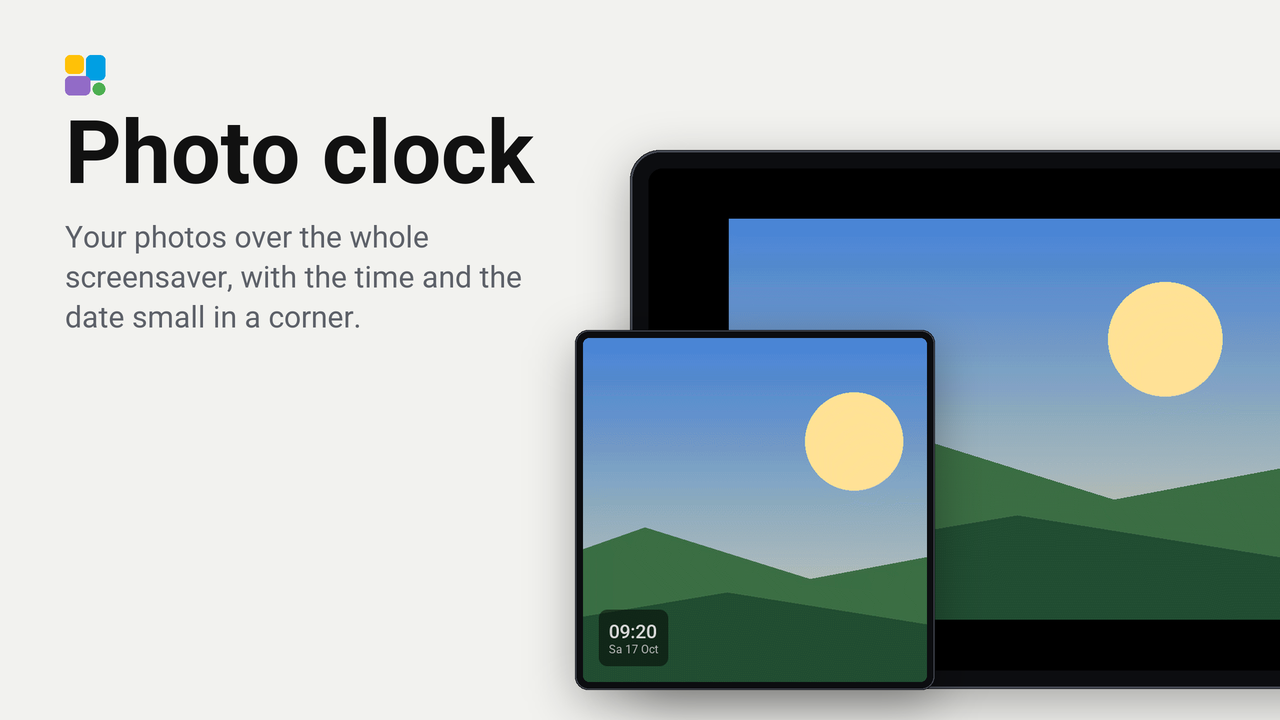
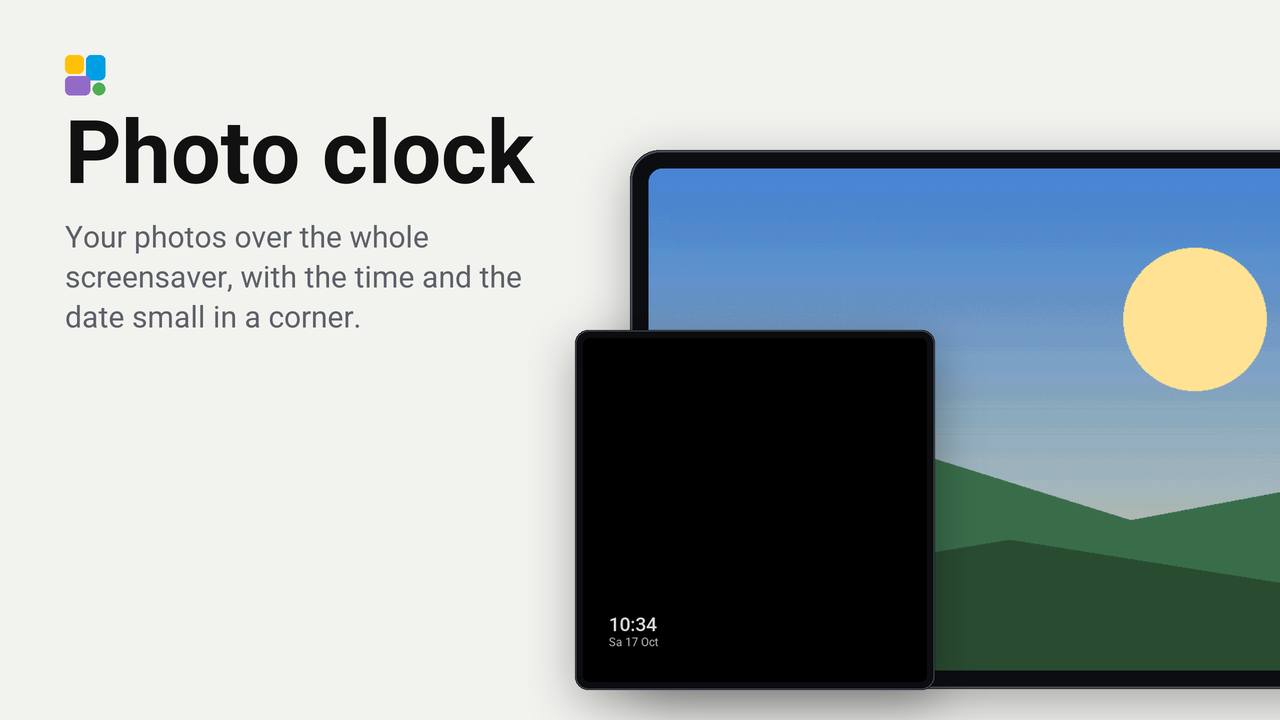
photo_clock draws over the step's own photo (backdrop), which moves with Motion: Slow; the bench answers a backdrop and audits a saver on its black ground
The manifest's backdrop and the bench's answer to the screen's question for the step's picture (photos moving where
preview.yaml's example says motion: true); FIRMWARE_API.md and MANIFEST.md describe backdrop. The audit took the light
page for the ground of a saver's clear glass and called white words on a shade over a photo too faint.

Changed region(s): [[0.4375, 0.2139, 1.0, 0.9472], [0.8438, 0.3361, 1.0, 0.55]]

diff --git a/tools/bench.py b/tools/bench.py
@@ -112,10 +112,12 @@ BENCH_ACTIONS = '''    - action: render_settings
               auto channel = [](uint8_t v) {{ const float s = v / 255.0f; return s <= 0.03928f ? s / 12.92f : std::pow((s + 0.055f) / 1.055f, 2.4f); }};
               return 0.2126f * channel(c.red) + 0.7152f * channel(c.green) + 0.0722f * channel(c.blue);
             }};
-            auto ground = [](lv_obj_t *o) {{
+            // A screensaver stands on the black glass, or on the step's own picture under a clear glass (`backdrop`),
+            // which the screensaver darkens or which the saver lays a shade over: the ground is the glass's black there.
+            auto ground = [&](lv_obj_t *o) {{
               for (lv_obj_t *p = lv_obj_get_parent(o); p; p = lv_obj_get_parent(p))
                 if (lv_obj_get_style_bg_opa(p, LV_PART_MAIN) >= LV_OPA_80) return lv_obj_get_style_bg_color(p, LV_PART_MAIN);
-              return theme::color(theme::PAGE);
+              return theme::color(saver ? theme::CAMERA_PAGE : theme::PAGE);
             }};
             std::function<void(lv_obj_t *, const lv_area_t &, Count &)> walk = [&](lv_obj_t *o, const lv_area_t &room, Count &n) {{
               if (!o || lv_obj_has_flag(o, LV_OBJ_FLAG_HIDDEN)) return;
@@ -605,7 +607,7 @@ def saver_examples(entry, spec):
     return out
 
 
-def saver_word(entry, kind, options, data):
+def saver_word(entry, kind, options, data, motion=False):
     """The app's word for the screensaver (screen_saver.message) with the plugin's saver in `pf`: a face goes with its
     step's own fields, so a screen that lacks the plugin would show the step's own face; a step of its own is `plugin`."""
     pf = {'p': f'plugin:{entry.id}.{kind["id"]}', 'o': dict(options or {}), 'x': data}
@@ -621,7 +623,8 @@ def saver_word(entry, kind, options, data):
                 't': data.get('title') or '', 'x': extra, 's': data.get('state') or '', 'f': int(data.get('features') or 0),
                 **({'m': 1} if data.get('muted') else {})}
     if step == 'photos':
-        return {**word, 'k': 'photos', 'e': 'saver.photos', 'n': '', 'x': {'pic': data.get('mark') or ''}}
+        # `motion: true` of the example: the photos move slowly (the person's Motion: Slow), under a face of `backdrop`.
+        return {**word, 'k': 'photos', 'e': 'saver.photos', 'n': '', 'x': {'pic': data.get('mark') or '', **({'mv': 1} if motion else {})}}
     return {**word, 'k': 'plugin'}
 
 
@@ -697,6 +700,10 @@ class Bench(run.Run):
         action."""
         if call.service == 'esphome.screen_plugin':
             asyncio.get_running_loop().create_task(self.answer(call.data))
+        elif call.service == 'esphome.screen_camera' and call.data.get('saver') in ('media', 'photos'):
+            # The step's own picture under a face of `backdrop: true` (plugin API 0.14): as the app makes it.
+            asyncio.get_running_loop().create_task(self.answer_backdrop(dict(call.data)))
+            self.last_ask = time.monotonic()
         elif call.service == 'esphome.screen_camera' and core.plugin_tile(str(call.data.get('tiles') or '')):
             job = asyncio.get_running_loop().create_task(self.answer_pictures(dict(call.data)))
             self.picture_jobs = getattr(self, 'picture_jobs', set())
@@ -716,6 +723,31 @@ class Bench(run.Run):
             await asyncio.sleep(0.1)
         if getattr(self, 'last_ask', 0):
             await asyncio.sleep(0.6)
+
+    async def answer_backdrop(self, data):
+        """The step's own picture under a face of `backdrop: true`: the example's `picture` or a drawn cover or photo, made
+        as the app makes the screensaver's (camera_feed.encode_photo, moving a little larger where the word says `mv`;
+        encode_saver for the music), answered as "saver"."""
+        import camera_feed
+        import media_art
+        shown = self.saver_shown or {}
+        kind = data.get('saver')
+        box = camera_feed.capped((self.screen.width, self.screen.height), cap=camera_feed.picture_cap(data))
+        if shown.get('picture'):
+            raw = (self.args.plugin.resolve() / str(shown['picture'])).read_bytes()
+        else:
+            raw = sample_photo(self.screen.width, self.screen.height) if kind == 'photos' else media_art.png(7, 640)
+        if kind == 'photos':
+            moving = camera_feed.motion_box(box, camera_feed.picture_cap(data)) if shown.get('motion') else None
+            body = camera_feed.encode_photo(raw, box, 'fill', moving)
+        else:
+            body = camera_feed.encode_saver(raw, box, 'media', 0)
+        try:
+            view = int(data.get('view', 0))
+        except (TypeError, ValueError):
+            view = 0
+        url = self.pictures.url(f'{self.screen.key}-backdrop-{view}.bmp', body)
+        await self.send({'v': 1, 'op': 'camera', 't': 'saver', 'e': data.get('entity', ''), 'u': url, 'view': view})
 
     async def answer_pictures(self, data):
         """The pictures of a plugin tile's, card's or screensaver's places (a card: plugin API 0.13, a screensaver: 0.14),
@@ -1102,9 +1134,9 @@ class Bench(run.Run):
         await self.call('render_time', epoch=self.now)
         await self.call('render_standby', enter=1)
         await asyncio.sleep(0.4)
-        self.saver_shown = {'step': kind['step'], 'picture': example.get('picture')}
+        self.saver_shown = {'step': kind['step'], 'picture': example.get('picture'), 'motion': bool(example.get('motion'))}
         start = len(self.lines)
-        await self.send(saver_word(self.entry, kind, example.get('options'), data))
+        await self.send(saver_word(self.entry, kind, example.get('options'), data, bool(example.get('motion'))))
         key = f'plugin:{self.entry.id}.{kind["id"]}'
         try:
             await self.until(lambda l: (SAVER_SHOWN.search(l) or [None, None])[1] == key, 8, f'the saver {kind["id"]}', start)

diff --git a/plugins/photo_clock/components/photo_clock/photo_clock.cpp b/plugins/photo_clock/components/photo_clock/photo_clock.cpp
@@ -11,10 +11,9 @@ namespace ui = tessera::ui;
 // A face of the screensaver's photos (plugin API 0.14): the photo over the whole glass, and the time small in a corner
 // with the date under it, on a shade that keeps them readable on a bright photo.
 //
-// The photo is the step's own picture: one place with the address "saver:picture", which the app answers with the
-// photo on the glass, cut to the place. Its key carries the photo's mark, so the next photo comes under the same
-// address by itself. The photo fills the glass and stays put; the time and date walk Tessera's slow circle against
-// burn-in (tessera::drift, `moves: true`), so nothing stands on the same pixels for hours and no black edge shows.
+// The photo is the step's own picture under the saver (`backdrop: true`): the screen shows it over the whole glass and
+// moves it when the person chose Motion: Slow, and the next photo comes by itself. The saver draws only the shade with
+// the time, which the screen moves a millimetre every minute against burn-in.
 class PhotoSaver : public tessera::Saver {
  public:
   void show(const tessera::SaverContext &c) override {
@@ -24,12 +23,6 @@ class PhotoSaver : public tessera::Saver {
     const char *corner = c.options["corner"] | "bottom_left";
     right_ = std::strstr(corner, "right") != nullptr;
     top_ = std::strncmp(corner, "top", 3) == 0;
-    if (ui::pictures()) {
-      photo_ = ui::picture(c.parent);
-      lv_obj_set_style_radius(photo_, 0, 0);
-      lv_obj_set_size(photo_, c.width, c.height);
-      lv_obj_set_pos(photo_, 0, 0);
-    }
     // The shade, made after the photo so it lies over it, and the two lines in it.
     shade_ = ui::block(c.parent, theme::CAMERA_PAGE);
     lv_obj_set_style_bg_opa(shade_, LV_OPA_50, 0);
@@ -38,10 +31,6 @@ class PhotoSaver : public tessera::Saver {
     date_ = ui::label(shade_, Font::BODY, theme::INK_SOFT);
   }
 
-  // The photos step's contract: `picture` ("saver:picture"), its `mark`, `index`, `count` and `album`.
-  void on_state(JsonObjectConst data) override {
-    if (photo_) ui::set_picture(photo_, data["picture"] | "", tessera::Fit::COVER);
-  }
 
   // The time and the date, once a minute: their texts, the shade's size and its corner.
   void on_tick(uint32_t epoch) override {
@@ -60,8 +49,7 @@ class PhotoSaver : public tessera::Saver {
     lv_obj_set_pos(time_, right_ ? w - pad - tw : pad, pad);
     lv_obj_set_pos(date_, right_ ? w - pad - dw : pad, pad + th);
     lv_obj_set_size(shade_, w, h);
-    const tessera::Point at = tessera::drift(epoch);
-    lv_obj_set_pos(shade_, (right_ ? width_ - m - w : m) + at.x, (top_ ? m : height_ - m - h) + at.y);
+    lv_obj_set_pos(shade_, right_ ? width_ - m - w : m, top_ ? m : height_ - m - h);
     lv_obj_remove_flag(shade_, LV_OBJ_FLAG_HIDDEN);
   }
 
@@ -69,7 +57,7 @@ class PhotoSaver : public tessera::Saver {
   int width_ = 0, height_ = 0;
   bool right_ = false, top_ = false;
   uint32_t minute_ = 0;
-  lv_obj_t *photo_{}, *shade_{}, *time_{}, *date_{};
+  lv_obj_t *shade_{}, *time_{}, *date_{};
 };
 
 void PhotoClock::setup() {

diff --git a/docs/FIRMWARE_API.md b/docs/FIRMWARE_API.md
@@ -504,7 +504,8 @@ add_saver("dial", tessera::SaverStep::CLOCK, []() { return new Dial(); });   // 
 | `on_hold()` (0.14) | A finger held on such a part for a second and a half (as volume down held mutes on Tessera's own player). `tap_point()` says where. |
 | `SaverContext` (0.14) | `parent` (the whole glass: everything goes in here), `width` and `height` (the glass in pixels), `step`, `level` (the backlight in percent, the standby or the night level, never 0), `night` (the night levels hold now: a face may go darker still) and `options` (the person's options of the saver; valid during `show()` only, copy what you keep). |
 | `ui::takes_taps(part)` (0.14) | A part a finger may tap without waking the screen: its taps go to `on_tap`, a hold to `on_hold`. Call it in `show()`, for a saver of the manifest's `taps: true` (the screen refuses it for any other, and logs why). |
-| `tessera::drift(epoch)` (0.14) | Where Tessera's slow circle against burn-in stands this minute, an offset of at most a millimetre. For a saver of `moves: true` that moves only some of its parts: a clock over a photo that fills the glass walks the circle while the photo stays put, so no black edge shows (the `photo_clock` plugin). |
+| `tessera::drift(epoch)` (0.14) | Where Tessera's slow circle against burn-in stands this minute, an offset of at most a millimetre. For a saver of `moves: true` that moves only some of its parts. |
+| manifest `backdrop: true` (0.14) | A face of the music or the photos gets the step's own picture under it, over the whole glass: the cover, or the photo, moving slowly when the person chose Motion: Slow (a pixel every 1.5 s; the 10-inch screens keep it still). The saver's glass is clear and it draws only what goes over the picture; it needs no `saver:picture` place for it. The way to make a slideshow face (the `photo_clock` plugin). |
 | `tessera::wish(entity, field, value)` (0.14) | A value a finger changed (`Wish::PLAYING` "1" or "0", `Wish::MUTED` "1" or "0", `Wish::ON_OFF` "on" or "off"): it shows at once and Home Assistant squares it. False when it was not sent. |
 | `"saver:picture"` (0.14) | The address of the step's own picture for `ui::set_picture`: the cover of the music on the glass, the photo of the photos step. |
 

diff --git a/docs/MANIFEST.md b/docs/MANIFEST.md
@@ -431,6 +431,7 @@ most 4. A manifest with `savers` names `api: "0.14"` or later.
 | `pictures` | no | Places for pictures, 0 to 8 (default 0): how many the saver makes at most with `ui::picture`. The address `saver:picture` is the step's own picture (the cover of the music, the photo of the photos), for a face of `media` or `photos`; any other address is on a host of `permissions.network`, or Home Assistant's own picture of a step of its own's entity. |
 | `taps` | no | `true` when the saver has parts made with `ui::takes_taps`, which a finger taps without waking the screen (default `false`): keys of a player, a switch. Say it whenever the code calls `ui::takes_taps`. |
 | `moves` | no | `true` when the saver moves itself so nothing stands on the same pixels for hours (a clock that turns, a picture that changes every minute); the screen then leaves it where it draws. Default `false`: the screen moves the whole saver up to a millimetre every minute. |
+| `backdrop` | no | (0.14) `true` for a face of the music or the photos that draws over the step's own picture: the screen shows the cover or the photo over the whole glass under the saver, the photo moving slowly when the person chose Motion: Slow, and the saver's glass is clear. Only for `step: media` or `photos`. |
 | `options` | no | At most 12 options the Screensaver card shows for it, as a tile's (above). The saver reads them in `SaverContext::options`; an option the person never touched may be missing there, so the C++ reads each with its default. |
 | `example` | no | Text key: a line the editor shows for it. |
 | `data` | only `own` | The id of the fetch whose answer the step gets in `on_state`. |

diff --git a/plugins/photo_clock/CHANGELOG.md b/plugins/photo_clock/CHANGELOG.md
@@ -1,5 +1,5 @@
 # Changelog
 
 ## 0.1.0
-- First version: a face of the screensaver's photos, the photo over the whole glass with the time and the date small
-  in a corner you choose. Needs a screen with plugin API 0.14.
+- First version: a face of the screensaver's photos, the time and the date small in a corner you choose, over the
+  photo, which moves slowly when you set Motion to Slow. Needs a screen with plugin API 0.14.
